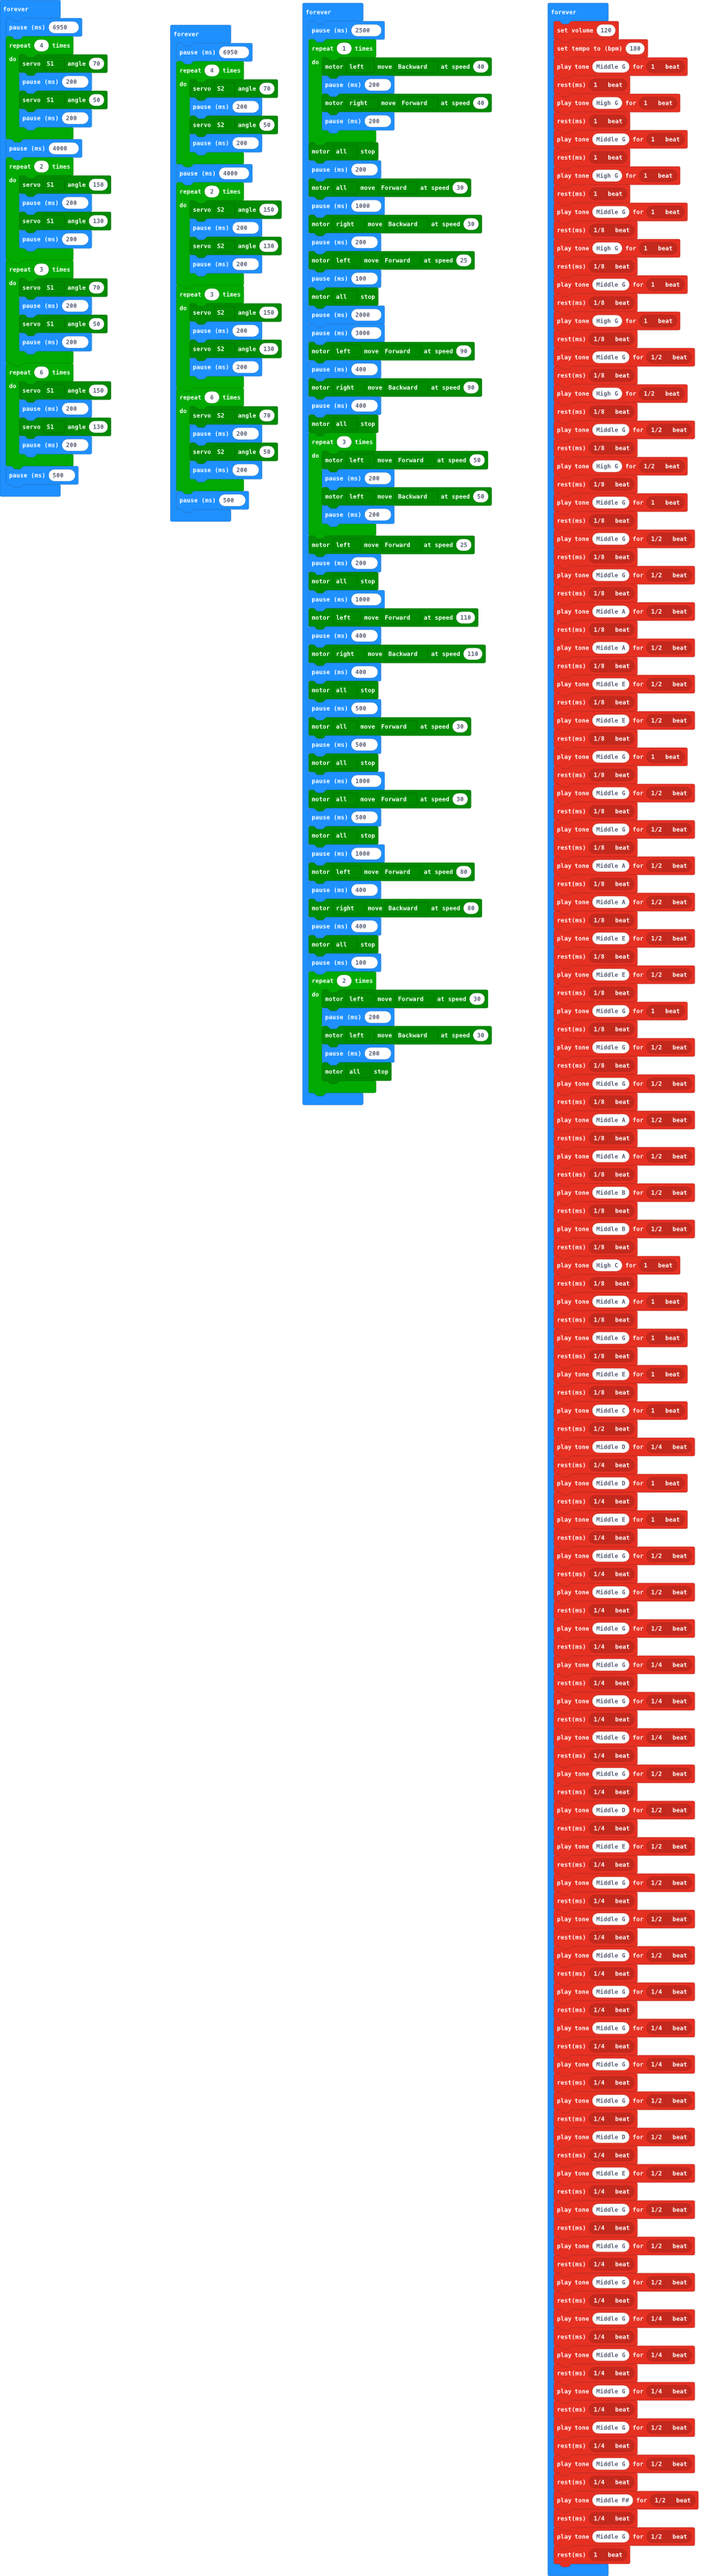
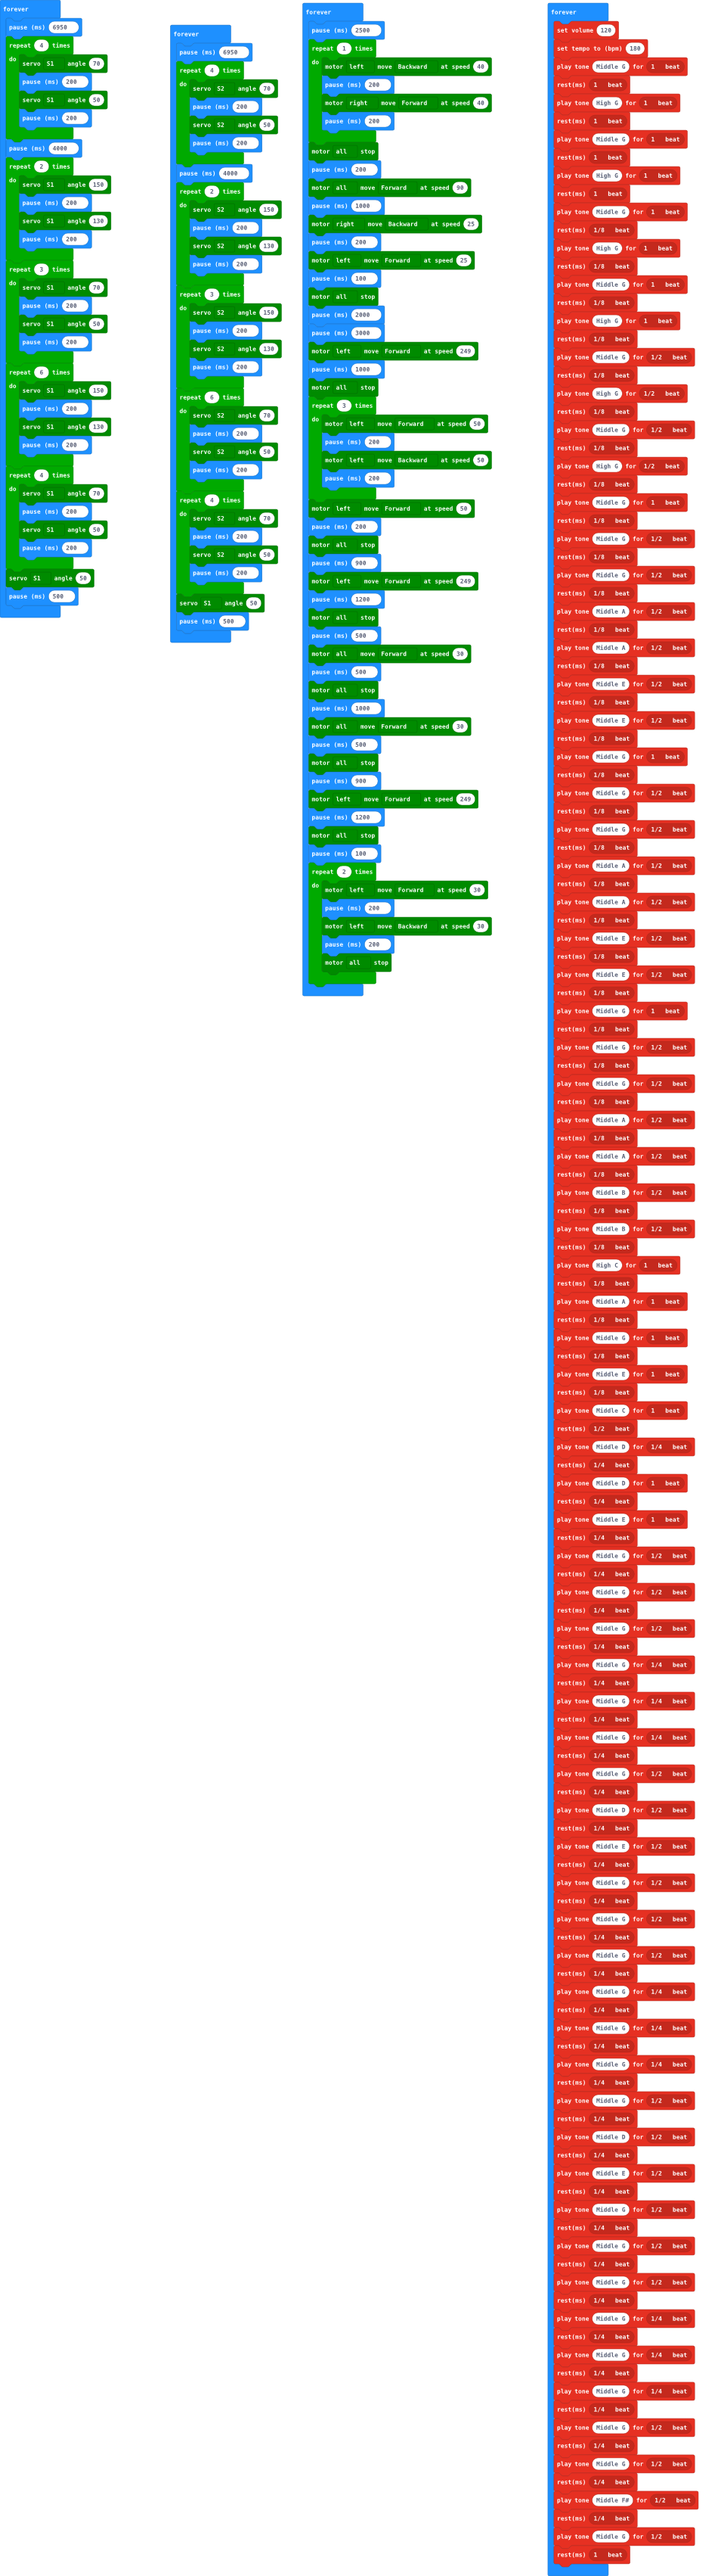
Update pxt.json, main.blocks, main.ts, main.py

Changed region(s): [[0.3968, 0.1246, 0.7021, 0.436], [0.0, 0.1557, 0.1526, 0.2491], [0.2137, 0.1868, 0.3968, 0.2491]]

diff --git a/main.ts b/main.ts
@@ -25,6 +25,13 @@ basic.forever(function () {
         maqueen.servoRun(maqueen.Servos.S1, 130)
         basic.pause(200)
     }
+    for (let index = 0; index < 4; index++) {
+        maqueen.servoRun(maqueen.Servos.S1, 70)
+        basic.pause(200)
+        maqueen.servoRun(maqueen.Servos.S1, 50)
+        basic.pause(200)
+    }
+    maqueen.servoRun(maqueen.Servos.S1, 50)
     basic.pause(500)
 })
 basic.forever(function () {
@@ -37,19 +44,17 @@ basic.forever(function () {
     }
     maqueen.motorStop(maqueen.Motors.All)
     basic.pause(200)
-    maqueen.motorRun(maqueen.Motors.All, maqueen.Dir.CW, 30)
+    maqueen.motorRun(maqueen.Motors.All, maqueen.Dir.CW, 90)
     basic.pause(1000)
-    maqueen.motorRun(maqueen.Motors.M2, maqueen.Dir.CCW, 30)
+    maqueen.motorRun(maqueen.Motors.M2, maqueen.Dir.CCW, 25)
     basic.pause(200)
     maqueen.motorRun(maqueen.Motors.M1, maqueen.Dir.CW, 25)
     basic.pause(100)
     maqueen.motorStop(maqueen.Motors.All)
     basic.pause(2000)
     basic.pause(3000)
-    maqueen.motorRun(maqueen.Motors.M1, maqueen.Dir.CW, 90)
-    basic.pause(400)
-    maqueen.motorRun(maqueen.Motors.M2, maqueen.Dir.CCW, 90)
-    basic.pause(400)
+    maqueen.motorRun(maqueen.Motors.M1, maqueen.Dir.CW, 249)
+    basic.pause(1000)
     maqueen.motorStop(maqueen.Motors.All)
     for (let index = 0; index < 3; index++) {
         maqueen.motorRun(maqueen.Motors.M1, maqueen.Dir.CW, 50)
@@ -57,14 +62,12 @@ basic.forever(function () {
         maqueen.motorRun(maqueen.Motors.M1, maqueen.Dir.CCW, 50)
         basic.pause(200)
     }
-    maqueen.motorRun(maqueen.Motors.M1, maqueen.Dir.CW, 25)
+    maqueen.motorRun(maqueen.Motors.M1, maqueen.Dir.CW, 50)
     basic.pause(200)
     maqueen.motorStop(maqueen.Motors.All)
-    basic.pause(1000)
-    maqueen.motorRun(maqueen.Motors.M1, maqueen.Dir.CW, 110)
-    basic.pause(400)
-    maqueen.motorRun(maqueen.Motors.M2, maqueen.Dir.CCW, 110)
-    basic.pause(400)
+    basic.pause(900)
+    maqueen.motorRun(maqueen.Motors.M1, maqueen.Dir.CW, 249)
+    basic.pause(1200)
     maqueen.motorStop(maqueen.Motors.All)
     basic.pause(500)
     maqueen.motorRun(maqueen.Motors.All, maqueen.Dir.CW, 30)
@@ -74,11 +77,9 @@ basic.forever(function () {
     maqueen.motorRun(maqueen.Motors.All, maqueen.Dir.CW, 30)
     basic.pause(500)
     maqueen.motorStop(maqueen.Motors.All)
-    basic.pause(1000)
-    maqueen.motorRun(maqueen.Motors.M1, maqueen.Dir.CW, 80)
-    basic.pause(400)
-    maqueen.motorRun(maqueen.Motors.M2, maqueen.Dir.CCW, 80)
-    basic.pause(400)
+    basic.pause(900)
+    maqueen.motorRun(maqueen.Motors.M1, maqueen.Dir.CW, 249)
+    basic.pause(1200)
     maqueen.motorStop(maqueen.Motors.All)
     basic.pause(100)
     for (let index = 0; index < 2; index++) {
@@ -258,5 +259,12 @@ basic.forever(function () {
         maqueen.servoRun(maqueen.Servos.S2, 50)
         basic.pause(200)
     }
+    for (let index = 0; index < 4; index++) {
+        maqueen.servoRun(maqueen.Servos.S2, 70)
+        basic.pause(200)
+        maqueen.servoRun(maqueen.Servos.S2, 50)
+        basic.pause(200)
+    }
+    maqueen.servoRun(maqueen.Servos.S1, 50)
     basic.pause(500)
 })

diff --git a/main.py b/main.py
@@ -1,30 +1,38 @@
 def on_forever():
     basic.pause(6950)
     for index in range(4):
-        maqueen.servo_run(maqueen.Servos.S2, -5)
+        maqueen.servo_run(maqueen.Servos.S1, 70)
         basic.pause(200)
-        maqueen.servo_run(maqueen.Servos.S2, 5)
+        maqueen.servo_run(maqueen.Servos.S1, 50)
         basic.pause(200)
-    maqueen.servo_run(maqueen.Servos.S1, 0)
-    maqueen.servo_run(maqueen.Servos.S2, 0)
     basic.pause(4000)
-    for index2 in range(4):
-        maqueen.servo_run(maqueen.Servos.S2, -5)
+    for index2 in range(2):
+        maqueen.servo_run(maqueen.Servos.S1, 150)
         basic.pause(200)
-        maqueen.servo_run(maqueen.Servos.S2, 5)
+        maqueen.servo_run(maqueen.Servos.S1, 130)
         basic.pause(200)
-    maqueen.servo_run(maqueen.Servos.S2, -90)
-    basic.pause(100)
-    for index3 in range(10):
-        maqueen.servo_run(maqueen.Servos.S2, -5)
+    for index3 in range(3):
+        maqueen.servo_run(maqueen.Servos.S1, 70)
         basic.pause(200)
-        maqueen.servo_run(maqueen.Servos.S2, 5)
+        maqueen.servo_run(maqueen.Servos.S1, 50)
         basic.pause(200)
+    for index4 in range(6):
+        maqueen.servo_run(maqueen.Servos.S1, 150)
+        basic.pause(200)
+        maqueen.servo_run(maqueen.Servos.S1, 130)
+        basic.pause(200)
+    for index5 in range(4):
+        maqueen.servo_run(maqueen.Servos.S1, 70)
+        basic.pause(100)
+        maqueen.servo_run(maqueen.Servos.S1, 50)
+        basic.pause(100)
+    maqueen.servo_run(maqueen.Servos.S1, 50)
+    basic.pause(500)
 basic.forever(on_forever)
 
 def on_forever2():
     basic.pause(2500)
-    for index4 in range(1):
+    for index6 in range(1):
         maqueen.motor_run(maqueen.Motors.M1, maqueen.Dir.CCW, 40)
         basic.pause(200)
         maqueen.motor_run(maqueen.Motors.M2, maqueen.Dir.CW, 40)
@@ -45,7 +53,7 @@ def on_forever2():
     maqueen.motor_run(maqueen.Motors.M2, maqueen.Dir.CCW, 90)
     basic.pause(400)
     maqueen.motor_stop(maqueen.Motors.ALL)
-    for index5 in range(3):
+    for index7 in range(3):
         maqueen.motor_run(maqueen.Motors.M1, maqueen.Dir.CW, 50)
         basic.pause(200)
         maqueen.motor_run(maqueen.Motors.M1, maqueen.Dir.CCW, 50)
@@ -59,15 +67,22 @@ def on_forever2():
     maqueen.motor_run(maqueen.Motors.M2, maqueen.Dir.CCW, 110)
     basic.pause(400)
     maqueen.motor_stop(maqueen.Motors.ALL)
-    basic.pause(2000)
-    basic.pause(2000)
+    basic.pause(500)
+    maqueen.motor_run(maqueen.Motors.ALL, maqueen.Dir.CW, 30)
+    basic.pause(500)
+    maqueen.motor_stop(maqueen.Motors.ALL)
+    basic.pause(1000)
+    maqueen.motor_run(maqueen.Motors.ALL, maqueen.Dir.CW, 30)
+    basic.pause(500)
+    maqueen.motor_stop(maqueen.Motors.ALL)
+    basic.pause(1000)
     maqueen.motor_run(maqueen.Motors.M1, maqueen.Dir.CW, 80)
     basic.pause(400)
     maqueen.motor_run(maqueen.Motors.M2, maqueen.Dir.CCW, 80)
     basic.pause(400)
     maqueen.motor_stop(maqueen.Motors.ALL)
     basic.pause(100)
-    for index6 in range(2):
+    for index8 in range(2):
         maqueen.motor_run(maqueen.Motors.M1, maqueen.Dir.CW, 30)
         basic.pause(200)
         maqueen.motor_run(maqueen.Motors.M1, maqueen.Dir.CCW, 30)
@@ -76,7 +91,7 @@ def on_forever2():
 basic.forever(on_forever2)
 
 def on_forever3():
-    music.set_volume(180)
+    music.set_volume(120)
     music.set_tempo(180)
     music.play_tone(392, music.beat(BeatFraction.WHOLE))
     music.rest(music.beat(BeatFraction.WHOLE))
@@ -220,28 +235,32 @@ basic.forever(on_forever3)
 
 def on_forever4():
     basic.pause(6950)
-    for index7 in range(4):
-        maqueen.servo_run(maqueen.Servos.S1, 10)
-        basic.pause(200)
-        maqueen.servo_run(maqueen.Servos.S1, 30)
-        basic.pause(200)
-    maqueen.servo_run(maqueen.Servos.S1, 0)
-    maqueen.servo_run(maqueen.Servos.S2, 0)
-    basic.pause(3900)
-    for index8 in range(4):
-        maqueen.servo_run(maqueen.Servos.S1, -5)
-        basic.pause(200)
-        maqueen.servo_run(maqueen.Servos.S1, 5)
-        basic.pause(200)
-    basic.pause(100)
     for index9 in range(4):
-        maqueen.servo_run(maqueen.Servos.S1, 10)
+        maqueen.servo_run(maqueen.Servos.S2, 70)
         basic.pause(200)
-        maqueen.servo_run(maqueen.Servos.S1, 30)
+        maqueen.servo_run(maqueen.Servos.S2, 50)
         basic.pause(200)
-    for index10 in range(4):
-        maqueen.servo_run(maqueen.Servos.S1, -5)
+    basic.pause(4000)
+    for index10 in range(2):
+        maqueen.servo_run(maqueen.Servos.S2, 150)
+        basic.pause(200)
+        maqueen.servo_run(maqueen.Servos.S2, 130)
+        basic.pause(200)
+    for index11 in range(3):
+        maqueen.servo_run(maqueen.Servos.S2, 150)
+        basic.pause(200)
+        maqueen.servo_run(maqueen.Servos.S2, 130)
+        basic.pause(200)
+    for index12 in range(6):
+        maqueen.servo_run(maqueen.Servos.S2, 70)
+        basic.pause(200)
+        maqueen.servo_run(maqueen.Servos.S2, 50)
+        basic.pause(200)
+    for index13 in range(4):
+        maqueen.servo_run(maqueen.Servos.S2, 70)
         basic.pause(100)
-        maqueen.servo_run(maqueen.Servos.S1, 5)
+        maqueen.servo_run(maqueen.Servos.S2, 50)
         basic.pause(100)
+    maqueen.servo_run(maqueen.Servos.S1, 50)
+    basic.pause(500)
 basic.forever(on_forever4)
